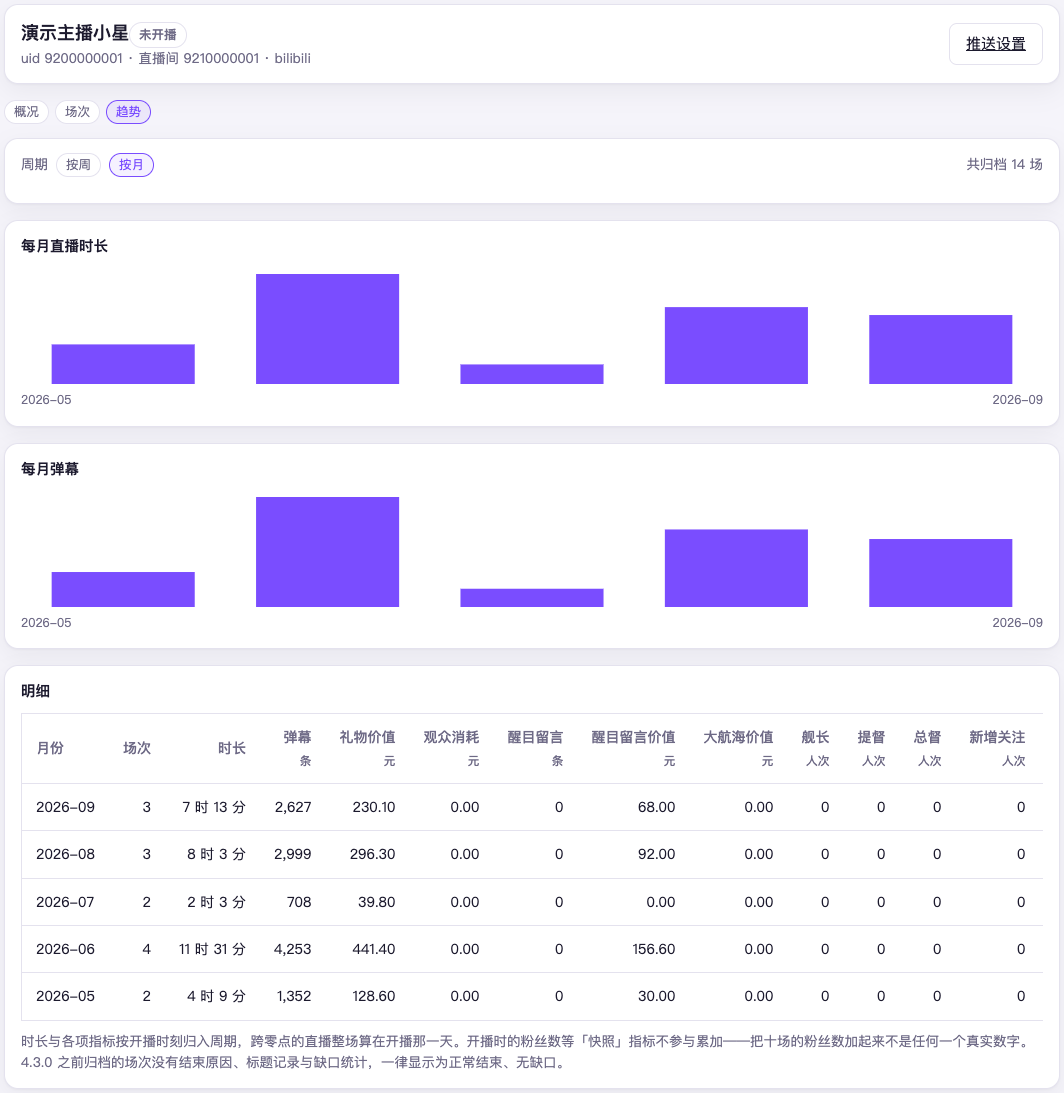
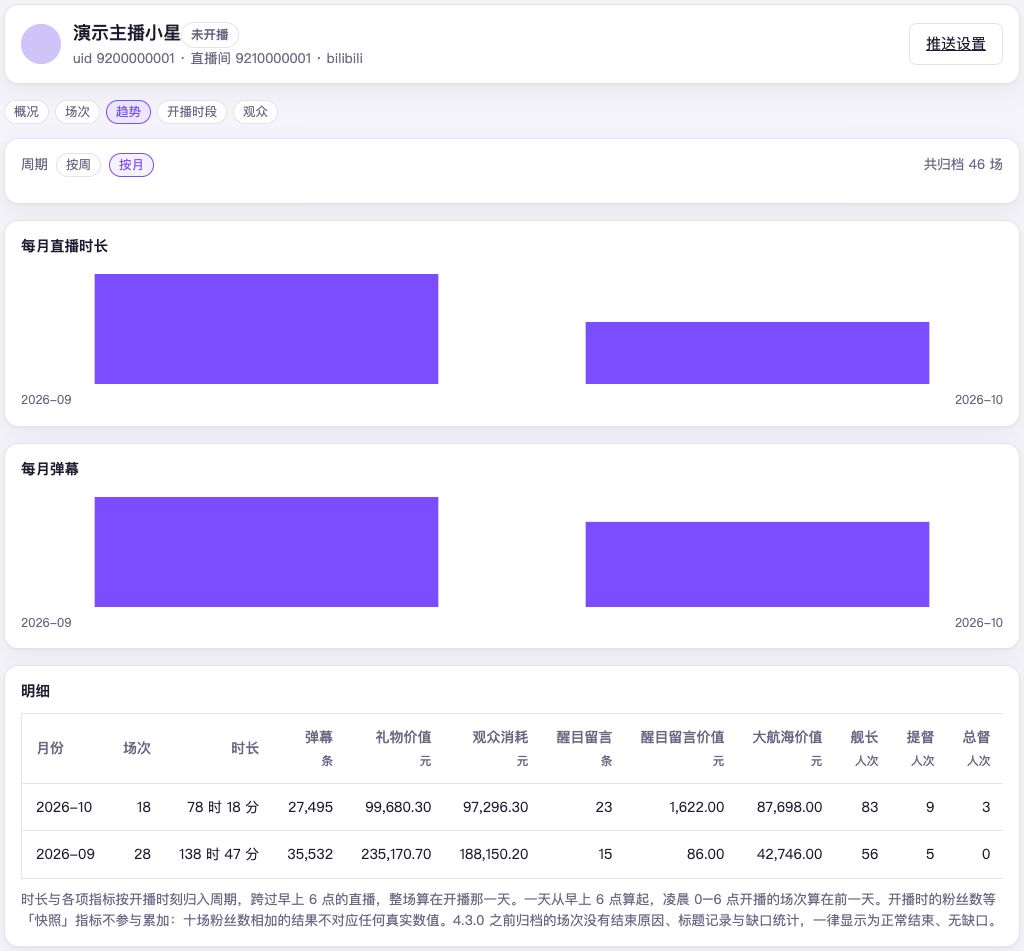
手册第 9 章换上主播页新截图：场次、趋势按月换新图，概况、开播时段、观众补图

diff --git a/manual/09-stream-reports.md b/manual/09-stream-reports.md
@@ -37,6 +37,10 @@
 
 有未比较的项目时，下方会出现默认收起的**「对比说明 · N 项未比较」**；只有名单提醒时，标题只写**「对比说明」**；两者都没有时，不显示这一项。点开能看到上面这些原因，以及各自影响了哪几格；同一个原因会放在一起。如果本期或上期有升级到 6.0 之前开播、名单完整性未知的场次，还会提醒「观众数对比仅供参考」；这条提醒本身不会阻止比较。
 
+没有配置累计数据（Redis），或累计数据暂时不可用时，概况顶上会多一条「本机未启用累计数据：群内只能查询本场数据。」；只影响群里带「总」的查法，这一页的数字照常。
+
+![「概况」页签近 30 天（示例数据）：页签下有累计数据未启用的提示；六格统计中直播时长、流水、弹幕带「较上期」，观众、互动观众、粉丝净增不带；「对比说明 · 2 项未比较」已展开，下方是首次记录与回访、名单说明和流水按天走势](images/09-overview.png)
+
 「本期首次记录」是范围内来过、此前从未出现在这位主播归档名单中的观众；「回访」是此前也出现过的观众。两者相加等于本期观众人数。首次记录只表示 NovaBot 第一次记到这位观众，不一定是第一次来看直播。范围开始前没有带名单的场次时，构成显示「暂无数据」，悬停说明名单从何时开始记录；从未记录过带名单的场次时，悬停写「尚未记录到带名单的场次」。
 
 这段时间没有带名单的场次时，观众、互动观众与本期构成都显示「暂无数据」。
@@ -64,7 +68,7 @@
 
 这几类场次的时长和收入跟正常场次**不可比**，看趋势时单独看待。
 
-![主播页「场次」页签（示例数据）：一行一场，两行时长带 ⚠，一行结束原因是「被平台切断」](images/09-sessions.png)
+![主播页「场次」页签第 1 页（示例数据）：20 场一行一场，开播时间是链接，几行时长后带 ⚠；表格在卡里可左右滑动，图中露出「开播」到「总督」几列，底下是翻页与说明](images/09-sessions.png)
 
 ### 趋势：按周、按月
 
@@ -84,7 +88,7 @@
   几场峰值加起来既不是同时在线人数，也不是人次。
 - **较老版本记下的场次没有缺口统计**，一律显示成无缺口——那是当年没在算，不是真一秒没漏。
 
-![「趋势」页签按月（示例数据）：每月直播时长与弹幕两张柱状图，下面是明细表](images/09-trend-month.png)
+![「趋势」页签按月（示例数据）：「每月直播时长」「每月弹幕」两张柱图各有 2026-09、2026-10 两根柱，下面是两行的「明细」表，表格在卡里可左右滑动](images/09-trend-month.png)
 
 ### 开播时段：看什么时候开播表现好
 
@@ -97,6 +101,8 @@
 上面的**「表现较好的开播时段」最多三行**：只从至少 3 场、有效时长大于 0 且有当前这项统计的格子里挑，按每小时数值从高到低排。数值相同，先选场次多的；再相同，按周一到周日、从早到晚排。够几个就列几个，没有可选的格子时显示「当前范围暂无达到 3 场的时段」。
 
 点一格，下方列出这个时段的场次、开播时间、时长和整场流水或弹幕；点开播时间进入单场报告。手机上表格可以**左右滑动**。
+
+![「开播时段」近 90 天、每小时流水（示例数据）：上方「表现较好的开播时段」列出三行，单位为元/时；下方 7×12 热图中四格有数值、颜色深浅不同，其余写「样本不足」或「—」，每格下写场次数，最下一行是说明](images/09-start-slots.png)
 
 ### 观众：看这段时间谁来过
 
@@ -117,6 +123,8 @@
 点**「本期到场」「本期流水」「最近到场」**的列名可以排序：前两列从多到少，最近到场从近到远，默认按本期到场排；再点同一列不会倒过来。按流水排时，「—」放在有金额的人后面。每页 **20 人**，底部可翻上一页、下一页。
 
 点昵称，展开这个人本期来过的场次，列出开播时间与标题；点其中一场进入单场报告。
+
+![「观众」页签默认条件（示例数据）：近 30 天、本期全部观众、按本期到场排，上方是范围、四个分组与名单说明；表格 20 行的「本期流水」都是「—」，底部是「下一页」与「第 1 / 2,942 页 · 共 58,840 人」](images/09-audience.png)
 
 分组下方的「名单：完整 N 场；完整性未知 M 场」说的是**本期场次的名单情况，不是人数**，只列非零项。「完整」表示没有认不出的观众，「完整性未知」表示升级到 6.0 之前开播时还没有记录这一项；其他情况见上面的名单说明。
 
